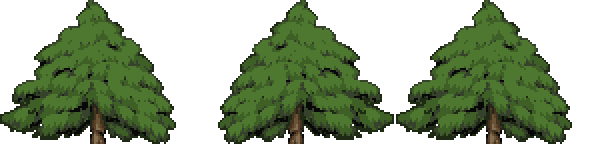
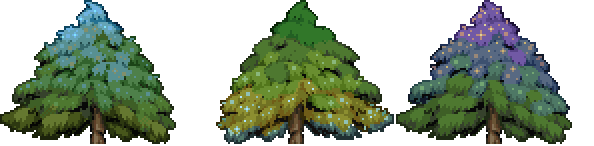
polish + green tops, green sapling and branches remain

diff --git a/Content/Crossmod/SpookyForest/SpookyStargrass.cs b/Content/Crossmod/SpookyForest/SpookyStargrass.cs
@@ -12,6 +12,7 @@ public class GreenSpookyStargrass : GrassTile
 {
 	public virtual int PlantsType => ModContent.TileType<GreenStargrassPlants>();
 	public virtual int VineType => ModContent.TileType<StargrassVine>();
+	protected virtual Color ParticleColor => new Color(157, 130, 80) * 0.66f;
 
 	public override bool IsLoadingEnabled(Mod mod) => CrossMod.Spooky.Enabled;
 
@@ -33,13 +34,15 @@ public class GreenSpookyStargrass : GrassTile
 		//TileHelperSets.TileGlowmask[Type] = Helpers.RequestGlowmask(this, GetGlowColor);
 
 		RegisterItemDrop(ItemID.DirtBlock);
-		AddMapEntry(new Color(28, 216, 151));
+		AddGrassMapEntry();
 		DustType = DustID.Flare_Blue;
 
 		this.AnchorSelfTo(TileID.Vines, TileID.VineFlowers, TileID.Plants, TileID.Plants2, TileID.DyePlants);
 
 		TileID.Sets.Conversion.Grass[Type] = true;
 	}
+
+	protected virtual void AddGrassMapEntry() => AddMapEntry(new Color(108, 180, 88));
 
 	public override void FloorVisuals(Player player)
 	{
@@ -62,7 +65,7 @@ public class GreenSpookyStargrass : GrassTile
 			bool left = true;
 
 			ParticleHandler.SpawnParticle(new GlowParticle(player.Bottom + new Vector2(Main.rand.Next(player.width), 0), velocity,
-				new Color(0, 157, 227) * 0.66f, Main.rand.NextFloat(0.35f, 0.5f), 60, 10, p =>
+				ParticleColor(), Main.rand.NextFloat(0.35f, 0.5f), 60, 10, p =>
 				{
 					p.Velocity = p.Velocity.RotatedBy(left ? 0.1f : -0.1f);
 
@@ -74,6 +77,7 @@ public class GreenSpookyStargrass : GrassTile
 				}));
 		}
 	}
+
 
 	public override bool TileFrame(int i, int j, ref bool resetFrame, ref bool noBreak)
 	{
@@ -112,6 +116,8 @@ public class GreenSpookyStargrass : GrassTile
 public class OrangeSpookyStargrass : GreenSpookyStargrass
 {
 	public override int PlantsType => ModContent.TileType<OrangeStargrassPlants>();
+	protected override Color ParticleColor => new Color(77, 196, 25) * 0.66f;
 
+	protected override void AddGrassMapEntry() => AddMapEntry(new Color(255, 156, 67));
 	public override void ModifyLight(int i, int j, ref float r, ref float g, ref float b) => (r, g, b) = (0.35f, 0.35f, 0.05f);
 }

diff --git a/Content/Crossmod/SpookyForest/StarscareTreeGreen.cs b/Content/Crossmod/SpookyForest/StarscareTreeGreen.cs
@@ -37,8 +37,8 @@ public class StarscareTreeGreen : ModTree
 
 	public override void SetTreeFoliageSettings(int i, int j, Tile tile, int xoffset, ref int treeFrame, int floorY, ref int topTextureFrameWidth, ref int topTextureFrameHeight) 
 	{
-		topTextureFrameWidth = 228;
-		topTextureFrameHeight = 136;
+		topTextureFrameWidth = 196;
+		topTextureFrameHeight = 144;
 	}
 
 	public override int TreeLeaf()
